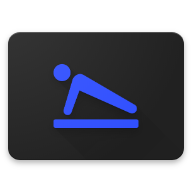
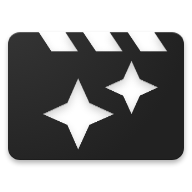
UI

diff --git a/index.html b/index.html
@@ -2,15 +2,14 @@
 <html lang="en" class="theme">
 
 <head>
-    <title>PushUp - PushUp Counter</title>
+    <title>Video - Video Player</title>
     <meta http-equiv="X-UA-Compatible" content="IE=edge,chrome=1">
     <meta name="viewport" content="width=device-width, initial-scale=1, minimum-scale=1">
     <meta name="theme-color" content="#212121">
     <meta name="application-name" content="Notes">
-    <meta name="description" content="Note App">
+    <meta name="description" content="Video Player App">
     <meta name="keywords" content="note,offline,web,app">
     <meta name="author" content="Rohit Parida">
-    <link rel="manifest" href="https://rohitparida27.github.io/video/manifest.json">
     <link href="css/style.css" rel="stylesheet">
     <link href="https://fonts.googleapis.com/css?family=Space+Mono" rel="stylesheet">
     <link rel="icon" href="img/icon-48.png">
@@ -27,20 +26,30 @@
         <div class="content">
             <div class="video-container">
                 <div id="contrastFilter"></div>
-                <video src="Rick.and.Morty.S01E01.720p.BRrip-[Downloado.site].mkv" controls autoplay preload="auto" poster="https://media.giphy.com/media/l0He3D7itEXKbdP3O/source.gif" id="element"></video>
+                <video src="Rick.and.Morty.S01E01.720p.BRrip-[Downloado.site].mkv" controls="" autoplay="" preload="auto" poster="https://media.giphy.com/media/l0He3D7itEXKbdP3O/source.gif" id="element"></video>
             </div>
             <div class="input-container">
-                <div id="message"></div>
-                <input type="file" accept="video/*" id="receiver" style="display: none;" />
-                <label for="receiver"><span class="select">Hi</span></label>
-                <div id="contrastSlider">
-                    <input id="contrast" type="range" value="0.5" max="1" min="0" step="0.01" />
+                <div class="botmbar">
+                    <div id="message"></div>
+                    <input type="file" accept="video/*" id="receiver" style="display: none;">
+                    <label for="receiver">
+                        <svg xmlns="http://www.w3.org/2000/svg" fill="#000000" height="24" viewBox="0 0 24 24" width="24">
+                                <path d="M16.5 6v11.5c0 2.21-1.79 4-4 4s-4-1.79-4-4V5c0-1.38 1.12-2.5 2.5-2.5s2.5 1.12 2.5 2.5v10.5c0 .55-.45 1-1 1s-1-.45-1-1V6H10v9.5c0 1.38 1.12 2.5 2.5 2.5s2.5-1.12 2.5-2.5V5c0-2.21-1.79-4-4-4S7 2.79 7 5v12.5c0 3.04 2.46 5.5 5.5 5.5s5.5-2.46 5.5-5.5V6h-1.5z"/>
+                                <path d="M0 0h24v24H0z" fill="none"/>
+                        </svg>
+                    </label>
+                    <input type="text" id="newURL" placeholder="Enter URL">
+                    <button id="send" type="button" onclick="changeURL()"></button>
+                    <label class="send" for="send">
+                        <svg xmlns="http://www.w3.org/2000/svg" fill="#000000" height="24" viewBox="0 0 24 24" width="24">
+                            <path d="M2.01 21L23 12 2.01 3 2 10l15 2-15 2z"/>
+                            <path d="M0 0h24v24H0z" fill="none"/>
+                        </svg>
+                    </label>
                 </div>
-                <input type="text" id="newURL" placeholder="Enter URL">
-                <button type="button" onclick="changeURL()">Submit</button>
-            </div>
-            <div class="botmbar">
-
+                <div id="contrastSlider">
+                    <input id="contrast" type="range" value="0.5" max="1" min="0" step="0.01">
+                </div>
             </div>
         </div>
         <!--______________________________CONTENT_END-->

diff --git a/css/style.css b/css/style.css
@@ -13,8 +13,7 @@
 }
 
 html, body {
-    position: relative;
-    overscroll-behavior-y: contain;
+    position: relative
 }
 
 /*_________________________*/
@@ -67,33 +66,46 @@ video::-webkit-media-controls-timeline {}
 
 .input-container {
     position: relative;
-    height: 100%;
+    height: 60vh;
     width: 100vw;
     z-index: 2;
 }
 
 input {
-    position: relative;
+    position: inherit;
     max-width: calc(100% - 28px);
-    background: white;
     color: #212121;
-    margin: 10px;
-    padding: 4px;
-    border-radius: 2px;
-    box-shadow: 0 4px 5px 0 rgba(0, 0, 0, 0.14), 0 1px 10px 0 rgba(0, 0, 0, 0.12), 0 2px 4px 1px rgba(0, 0, 0, 0.4)
+    border: 0;
+    height: 24px;
+    padding: 15.5px;
+    width: calc(100vw - 141px);
+    left: 55px;
+}
+
+.botmbar {
+    background: white;
+    bottom: 0;
+    position: absolute;
+    height: 55px;
+    width: 100vw;
+    border-top: 1px solid #979797
 }
 
 label {
-    margin: 10px;
     display: inline-block;
+    height: 24px;
+    padding: 15.5px;
+    position: absolute;
+    height: 24px;
+    padding: 15.5px;
 }
 
-.select {
-    background: black;
-    text-align: center;
-    padding: 5px 23px;
-    box-shadow: 0 2px 5px 0 rgba(0, 0, 0, 0.4);
-    border-radius: 4px;
+.send {
+    right: 0;
+}
+
+span svg {
+    position: absolute;
 }
 
 @media screen and (orientation:landscape) {

diff --git a/README.md b/README.md
@@ -1,16 +1,8 @@
-PushUp
+Video
 
-A Push up counting app.
-
-========
-
-#F.A.Q-
-1. How to does it count Push ups?
-- Simply place your smartphone in front of your face, facing upwards while being in a Push up stance then with each Push up tap on screen with your nose tip.
+A Video Player app.
 
 ========
 
-# Features
-
-- Offline-capable - ServiceWorker. (<https://developer.mozilla.org/en-US/docs/Web/API/Service_Worker_API>)
-- "Add To Home Screen" capable.
+Link:
+https://rohitparida27.github.io/video/
